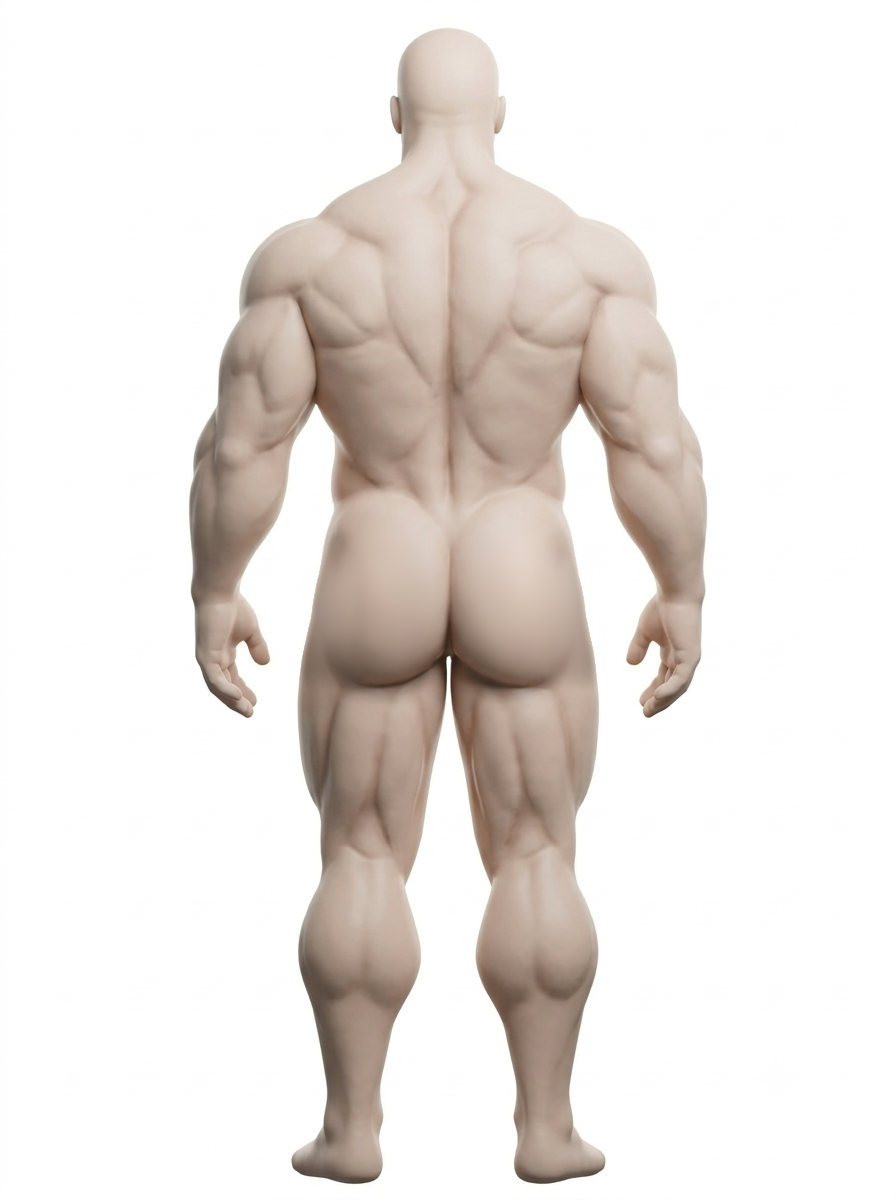
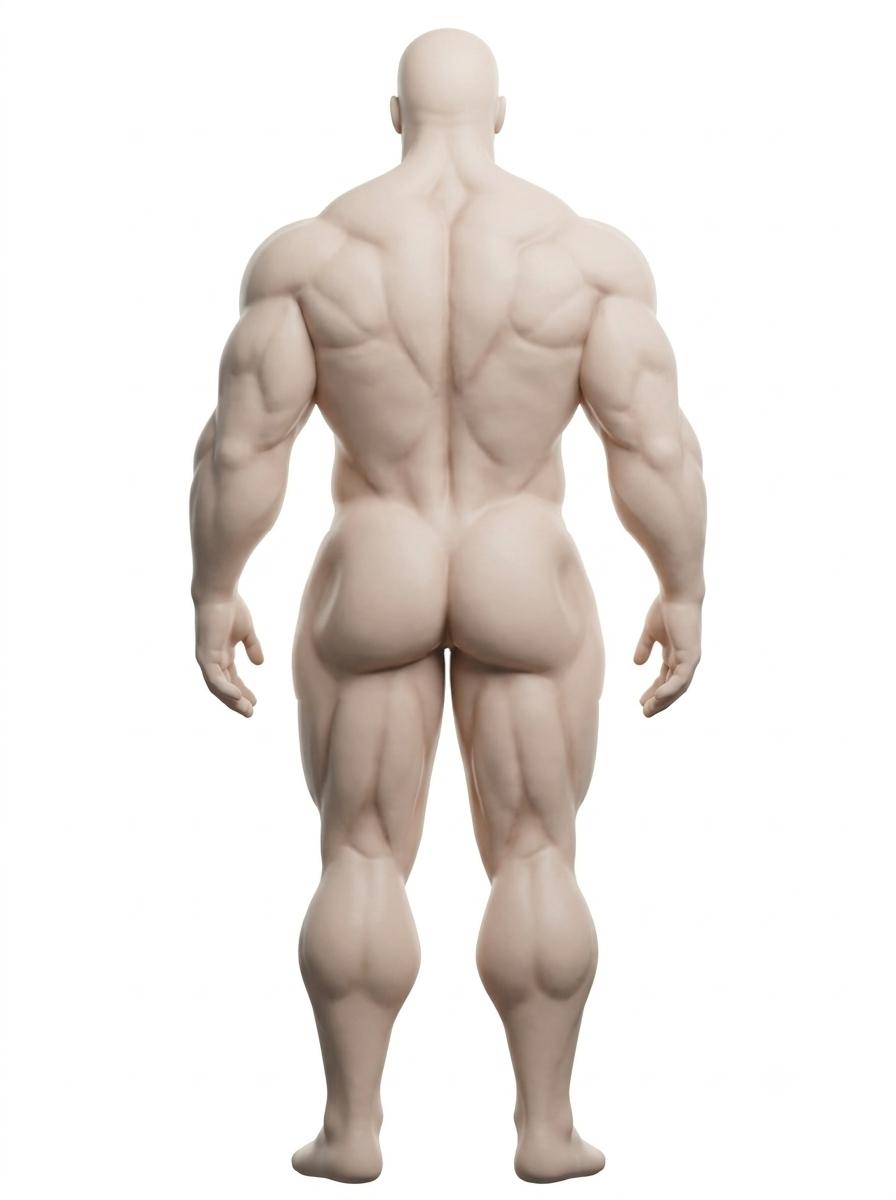
근육 그림: 엉덩이 초기화 후 좌우로만 넓힘
Claude-Session: https://claude.ai/code/session_01BoBwgsWhq9LWGdXHzThg1i

diff --git a/문서/자료/근육그림/엉덩이좌우넓히기.py b/문서/자료/근육그림/엉덩이좌우넓히기.py
@@ -1,0 +1,14 @@
+# 엉덩이 좌우로만 둥글게 키우기 (위아래 길이는 그대로). 각 엉덩이 가운데(cx)를 기준으로 가로만 부풀림.
+# 세로 가중 = 엉덩이 높이 안에서 sin 모양(위 · 아래 끝은 0) → 위아래는 그대로, 가운데 높이가 가장 넓게(둥근 옆선)
+import sys, json, numpy as np
+from PIL import Image
+from scipy import ndimage
+src,dst=sys.argv[1],sys.argv[2]; spec=json.loads(sys.argv[3])
+im=Image.open(src); a=np.asarray(im.convert('RGB')).astype(float); H,W=a.shape[:2]
+yy,xx=np.mgrid[0:H,0:W].astype(float); sx=xx.copy()
+for cx,y0,y1,rx,k in spec:
+    t=np.clip((yy-y0)/(y1-y0),0,1); vy=np.sin(np.pi*t)**0.7*((yy>=y0)&(yy<=y1))
+    dx=(sx-cx)/rx; g=np.where(np.abs(dx)<1,(1-dx*dx)**2,0.0)
+    sx=cx+(sx-cx)*(1-k*g*vy)
+out=np.stack([ndimage.map_coordinates(a[...,c],[yy,sx],order=1,mode='nearest') for c in range(3)],-1)
+Image.fromarray(out.clip(0,255).astype(np.uint8)).save(dst)

diff --git a/문서/작업일지.md b/문서/작업일지.md
@@ -135,3 +135,4 @@
 - 10-10 홍겸 님: 엉덩이 너무 근육질 · 납작 → 둥글둥글하게 다시(세로로 더 부풀림 · 안쪽 잔 결 흐리게 · 위 가운데 밝게 · 아래 C자 테두리 그늘) — 02 · 04(+반전) 최종 갱신, 확인 전
 - 10-10 홍겸 님: 팔 확대 기본 사진 추가 → 최종원본/15_팔확대_기본(+_좌우반전)
 - 10-10 홍겸 님: 엉덩이 좌우가 패여 보임 → 좌우 바깥을 공 단면처럼 다시 칠함(엉덩이옆둥글게.py, 크기는 그대로) — 02 · 04(+반전) 최종 갱신
+- 10-10 홍겸 님: 엉덩이 고친 것 초기화 → 원본에서 다시: 위아래 길이 그대로, 좌우로만 둥글게 넓힘(엉덩이좌우넓히기.py, 가운데 높이에서 가장 넓게) — 02 · 04(+반전)
